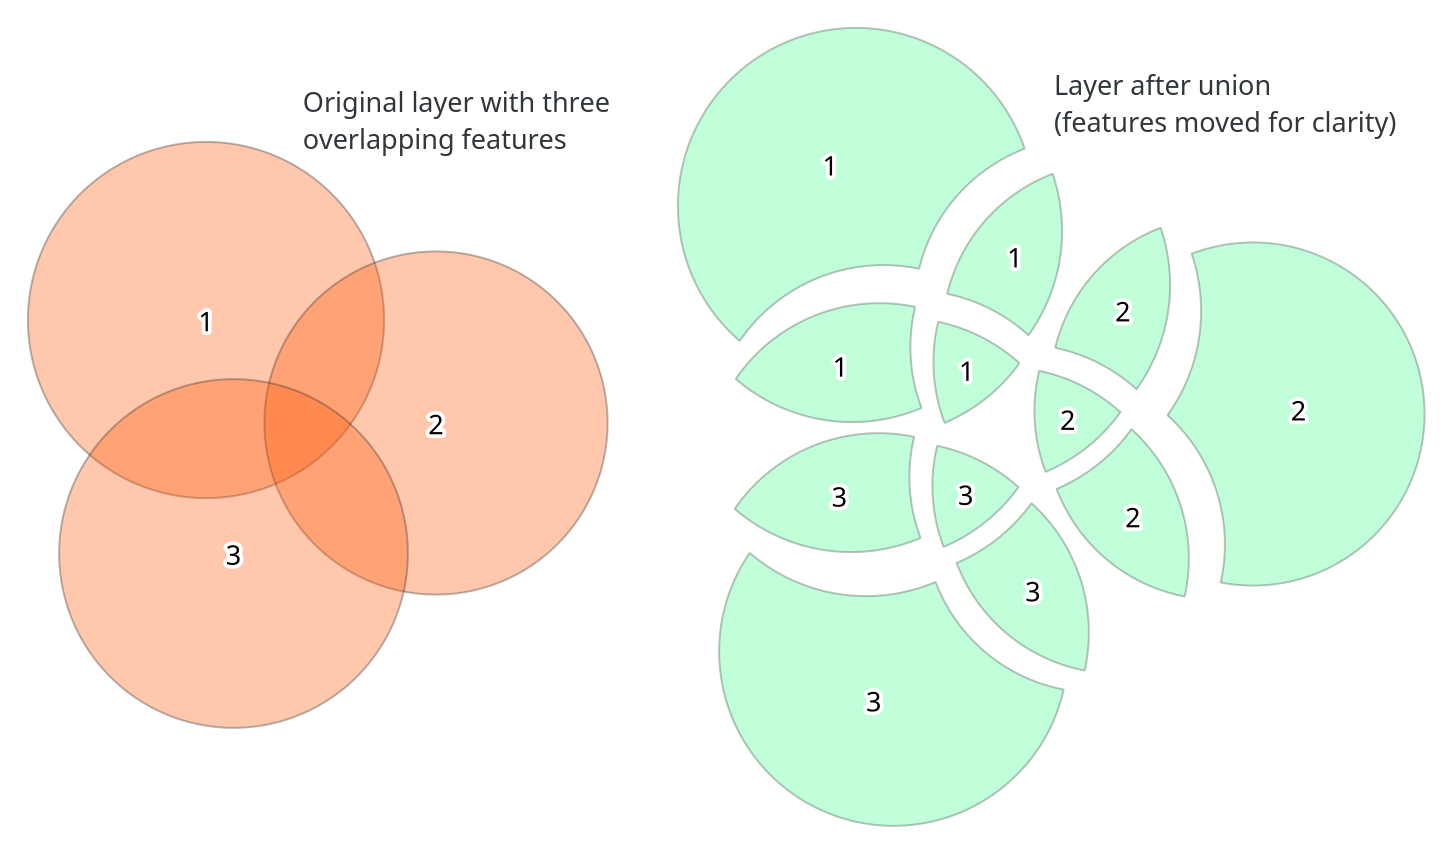
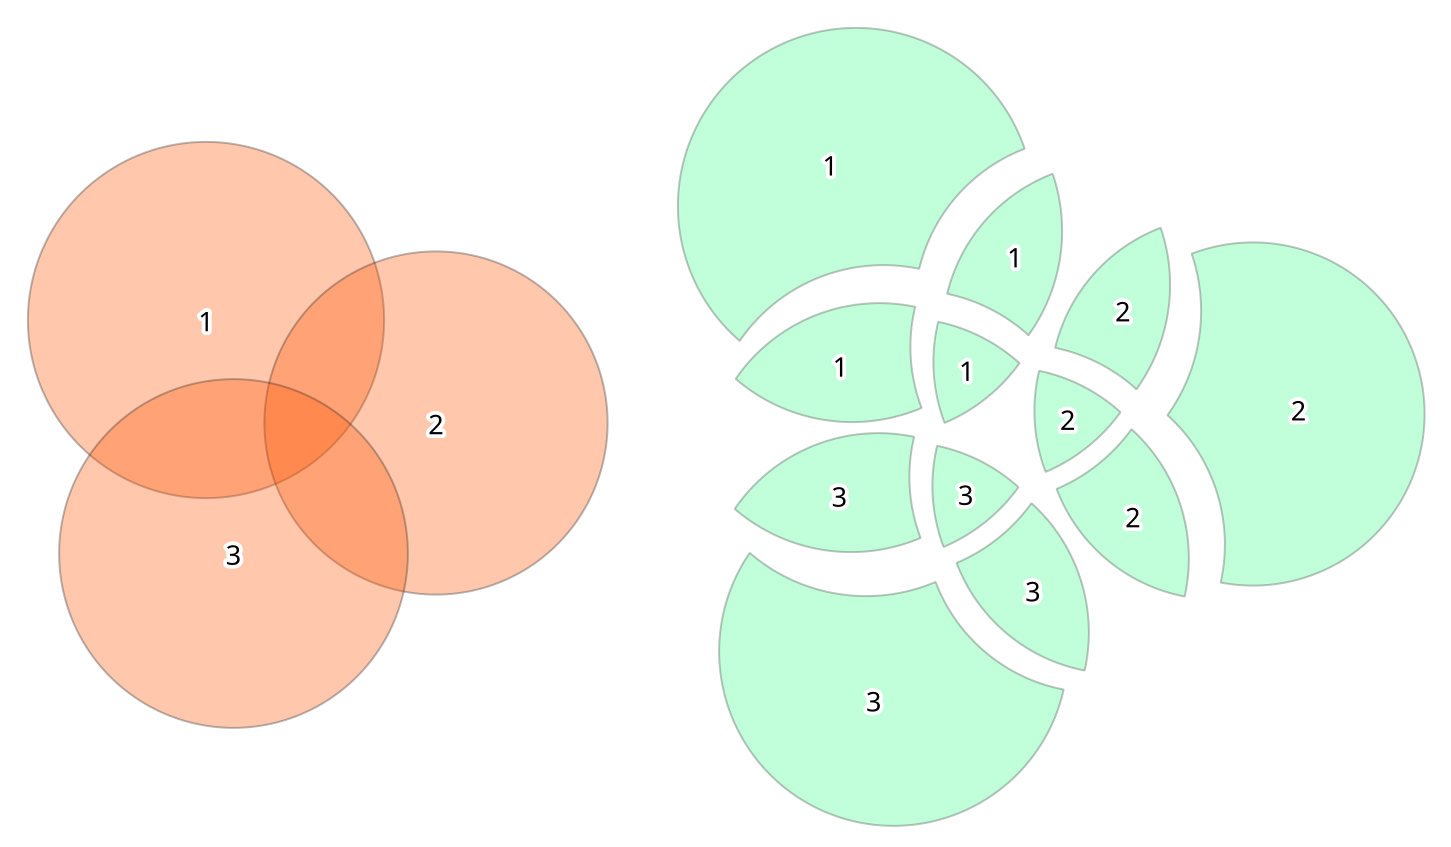
Add a screenshot for overlay case when running the union algorithm

Changed region(s): [[0.2171, 0.0921, 0.4032, 0.1842], [0.7133, 0.0921, 0.9614, 0.1535]]

diff --git a/source/docs/user_manual/processing_algs/qgis/vectoroverlay.rst b/source/docs/user_manual/processing_algs/qgis/vectoroverlay.rst
@@ -306,6 +306,12 @@ features for overlapping and non-overlapping parts. The area of overlap will
 create as many identical overlapping features as there are features that
 participate in that overlap.
 
+.. figure:: img/union.png
+  :align: center
+
+  Union operation with a single input layer of three overlapping features (left)
+  - resulting features are moved for clarity (right)
+
 An overlay layer can also be used, in which case features from each layer
 are split at their overlap with features from the other one, creating a
 layer containing all the portions from both input and overlay layers.
@@ -313,10 +319,11 @@ The attribute table of the union layer is filled with attribute values from the
 respective original layer for non-overlapping features, and attribute values
 from both layers for overlapping features.
 
-.. figure:: img/union.png
+.. figure:: img/union_with_overlay.png
   :align: center
 
-  Union operation
+  Union operation between a two-features input layer and a single feature
+  overlay layer (left) - resulting features are moved for clarity (right)
 
 .. note::
 
